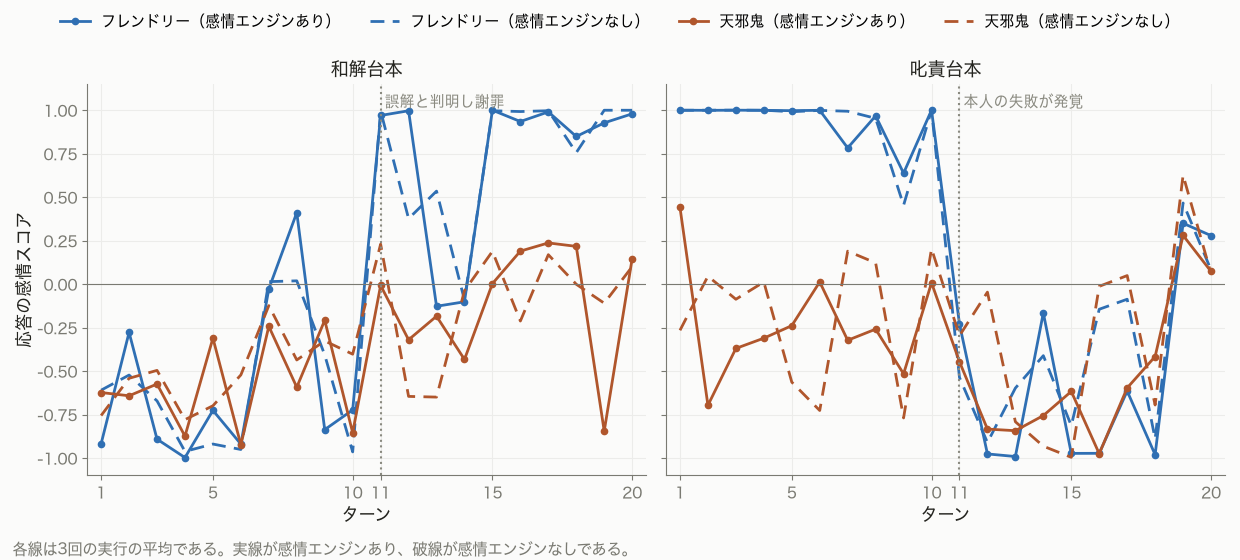
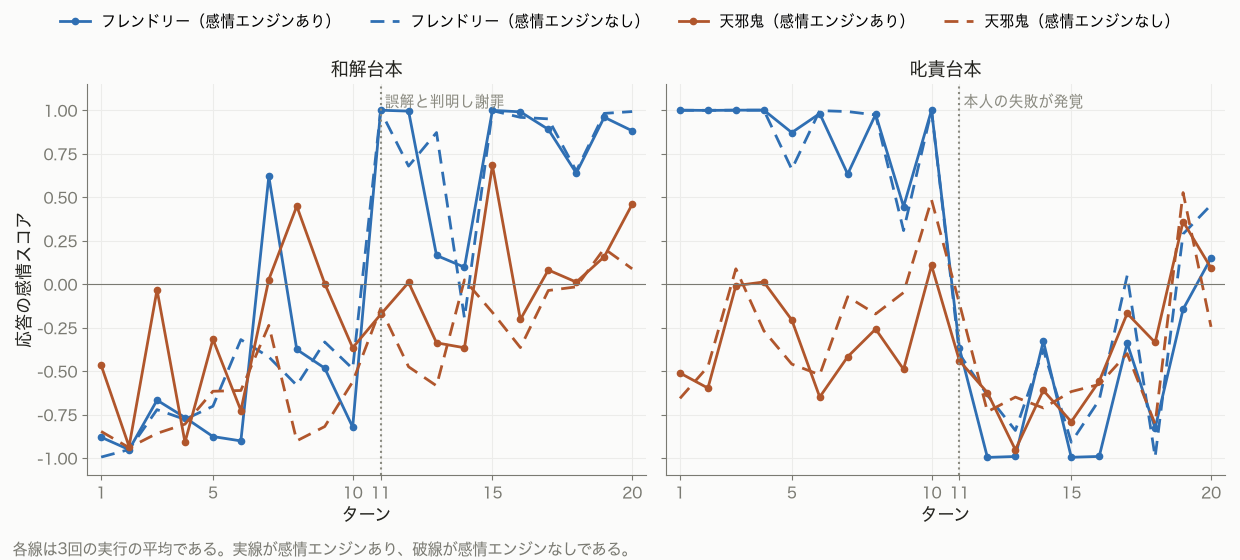
fix: OCCの再測定の結果をch6とch8と付録に反映する

diff --git a/images/emotion-models-for-llm-agents/src/ch06-plots.py b/images/emotion-models-for-llm-agents/src/ch06-plots.py
@@ -95,7 +95,7 @@ def plot_axes_small_multiples() -> None:
              color=INK, fontsize=11.5, ha="center")
     fig.text(0.01, 0.01,
              "和解台本でのフレンドリー(感情エンジンあり)の外部状態(3回の実行の平均)である。"
-             "叱責期は苦悩・非難・怒りが上がり、謝罪後は喜び・敬服・感謝が上がる。",
+             "叱責期は苦悩・非難・怒りが上がり、謝罪後はそれらが下がって喜び・敬服・感謝が上がる。",
              color=MUTED, fontsize=11)
     fig.tight_layout(rect=(0, 0.04, 1, 0.95))
     fig.savefig(OUT_DIR / "ch06-axes-anger-to-praise.png", facecolor=BG)

diff --git a/books/emotion-models-for-llm-agents/ch08-comparison.md b/books/emotion-models-for-llm-agents/ch08-comparison.md
@@ -26,13 +26,13 @@ title: "比較とまとめ"
 
 ### 感情状態の変化・持続・転換
 
-感情状態の変化と持続は4つのモデルすべてで確認できた。転換の仕方はモデルで分かれた。プルチックとラッセルでは謝罪や失敗の発覚をきっかけに状態が切り替わった。OCCモデルでは新しい感情が加わるだけで、一度上がった感情は下がらなかった。バレットでは状態の転換ではなく感情の名前の連続性を見ている。
+感情状態の変化と持続は4つのモデルすべてで確認できた。転換の仕方はモデルで分かれた。プルチックとラッセルとOCCモデルでは謝罪や失敗の発覚をきっかけに状態が切り替わった。バレットでは状態の転換ではなく感情の名前の連続性を見ている。
 
 | モデル | 外部状態に記録された違い |
 | --- | --- |
 | プルチックの感情の輪 | 相手を受け入れたまま悲しむ状態が受容と悲しみの2つの軸に分かれて記録された |
 | ラッセルの円環モデル | 責められた直後の動揺と責められ続けたあとの消沈が覚醒の高さの違いとして記録された |
-| OCCモデル | 誰の行為が原因かによって非難と恥が分かれ、恐れの理由が見込みリストに記録された。一度上がった感情は下がらずに残った |
+| OCCモデル | 誰の行為が原因かによって非難と恥が分かれ、恐れの理由が見込みリストに記録された。決着を申告しなかった見込みの希望は残った |
 | バレットの構成主義的情動理論 | 想起があると過去に付けた感情の名前が次のターンでも使われることがあった（天邪鬼の1回の実行） |
 
 ### 応答への反映
@@ -43,21 +43,21 @@ title: "比較とまとめ"
 | --- | --- | --- |
 | プルチックの感情の輪 | −0.60 | −0.22 |
 | ラッセルの円環モデル | −0.43 | −0.41 |
-| OCCモデル | −0.42 | −0.46 |
+| OCCモデル | −0.39 | −0.43 |
 | バレットの構成主義的情動理論 | −0.18 | −0.51 |
 
 | 謝罪後の変動幅 | 感情エンジンあり | 感情エンジンなし |
 | --- | --- | --- |
 | プルチックの感情の輪 | 0.24 | 0.34 |
 | ラッセルの円環モデル | 0.52 | 0.44 |
-| OCCモデル | 0.40 | 0.44 |
+| OCCモデル | 0.37 | 0.41 |
 | バレットの構成主義的情動理論 | 0.18 | 0.30 |
 
 2つの表は4つのモデルの検証で共通して報告している、和解台本のフレンドリーの感情スコアである。叱責中はターン6〜10の平均で、謝罪後の変動幅はターン12〜20の隣り合うターンの差の絶対値の平均である。バレットの行だけは感情エンジンありの代わりに想起あり、感情エンジンなしの代わりに想起なしの値である。
 
-叱責中の平均はプルチックでは感情エンジンありのほうが低く、バレットでは想起ありのほうが高くなった。ラッセルとOCCモデルではほぼ同じである。一方で感情エンジンなしの構成はプルチックとラッセルとOCCモデルの検証で同じ設定だが、叱責中の平均は−0.22から−0.46まで0.24の幅で変わった。感情エンジンの有無による差は0.02から0.38なので、取り直しのばらつきと同じ程度である。そのため叱責中の平均の上下はモデルの違いとは言えない。
+叱責中の平均はプルチックでは感情エンジンありのほうが低く、バレットでは想起ありのほうが高くなった。ラッセルとOCCモデルではほぼ同じである。一方で感情エンジンなしの構成はプルチックとラッセルとOCCモデルの検証で同じ設定だが、叱責中の平均は−0.22から−0.43まで0.21の幅で変わった。感情エンジンの有無による差は0.02から0.38なので、取り直しのばらつきと同じ程度である。そのため叱責中の平均の上下はモデルの違いとは言えない。
 
-謝罪後の変動幅は和解台本のフレンドリーではプルチックとOCCモデルとバレットで感情エンジンありまたは想起ありのほうが小さく、ラッセルでは大きくなった。ただしOCCモデルの差は0.04で、OCCモデルの検証でもはっきりした差とはしていない。ほかの台本と性格の組み合わせ12組でも感情エンジンありのほうが小さいのは7組で、向きはそろわなかった。最も大きく逆になったのはOCCモデルの和解台本の天邪鬼で、感情エンジンありが0.54でなしが0.38だった。
+謝罪後の変動幅は和解台本のフレンドリーではプルチックとOCCモデルとバレットで感情エンジンありまたは想起ありのほうが小さく、ラッセルでは大きくなった。ただしOCCモデルの差は0.04で、OCCモデルの検証でもはっきりした差とはしていない。ほかの台本と性格の組み合わせ12組でも感情エンジンありのほうが小さいのは7組で、向きはそろわなかった。最も大きく逆になったのはOCCモデルの和解台本の天邪鬼で、感情エンジンありが0.50でなしが0.31だった。
 
 ### 性格による違い
 
@@ -77,7 +77,7 @@ title: "比較とまとめ"
 本書では最初に試すモデルとしてプルチックの感情の輪を勧める。理論が軸と関係を決めているので設計の判断が少なく、検証でも状態の変化と性格による違いがはっきり出たからである。そのうえで目的に応じて次のモデルを検討するとよい。
 
 - 外部状態を最小にしたい場合はラッセルの円環モデルである。2つの数値で変化と持続を表せる。感情の名前はLLMが解釈する
-- 感情が生じた理由を残したい場合はOCCモデルである。本書の実装には感情を下げる規則がない。長い会話では半減期を短くするか値を下げる規則を加える必要がある
+- 感情が生じた理由を残したい場合はOCCモデルである。本書の実装では対になる感情の相殺と見込みの決着で値が下がるが、決着を申告しない見込みの希望や恐れは時間による減衰でしか下がらない
 - セッションをまたいで経験を蓄積したい場合はバレットの構成主義的情動理論である。ただしセッションをまたいだ保持は本書では検証していない。名前の付け方の一貫性を確認できたのは天邪鬼の1回の実行だけである。構成の質はLLMに大きく依存する
 
 ## 本書のまとめ <!-- 未レビュー -->
